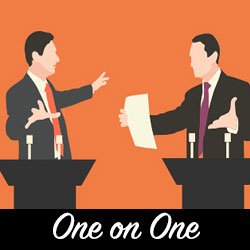
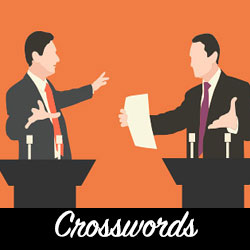
Update pro shows and minor changes

Changed region(s): [[0.0, 0.812, 1.0, 0.98]]

diff --git a/pro/index.html b/pro/index.html
@@ -42,6 +42,19 @@ Effervescence'17 presents to you the Humour Night for the very first time.  We'r
               <img src="images/thumbs/4.jpg" alt="img03"/>
             </a>
           </li>
+          <li>
+            <a href="http://cargocollective.com/jaimemartinez/" data-largesrc="images/4.jpg" data-title="Kavyom" data-description="Gear up to enjoy the Infinite Sky of Poetry at Kavyom, being held for the very first time in IIIT Allahabad. Relish an indelible and a stupendous evening with the one and only, Kumar Vishwas. It is doubtlessly going to be the most congenial event for all poetry lovers out there. 
+">
+              <img src="images/thumbs/4.jpg" alt="img03"/>
+            </a>
+          </li>
+          <li>
+            <a href="http://cargocollective.com/jaimemartinez/" data-largesrc="images/3.jpg" data-title="Horizon" data-description="Witness international artists perform live and engulf yourselves in the extravagance of art and culture at Horizon, Effervescence'17. 
+We bring to you, Carlos Elliot Jr known as the poineer of Mississippi Hill Country Blues and the famous Israeli Band, Alaska Snack Time  all set to provide a refreshing new experience that leaves no indifferent ear!
+">
+              <img src="images/thumbs/5.jpg" alt="img03"/>
+            </a>
+          </li>
 				</ul>
 			</div>
 		</div><!-- /container -->

diff --git a/events/index.html b/events/index.html
@@ -84,7 +84,7 @@ audience. Great competition, Greater effort.">
             </a>
           </li> 
           <li class="lit">
-            <a href="http://cargocollective.com/jaimemartinez/" data-largesrc="images/1.jpg" data-title="One on One" data-description=" Sometimes it&#39;s a boon to have the infinite scrolling option on Facebook! But, aren&#39;t you fed up of
+            <a href="http://cargocollective.com/jaimemartinez/" data-largesrc="images/1.jpg" data-title="Crosswords" data-description=" Sometimes it&#39;s a boon to have the infinite scrolling option on Facebook! But, aren&#39;t you fed up of
                 seeing the repetitive memes in your newsfeed? Is your thumb tired of scrolling through
                 innumerable meme pages just to end up finding not-so- good memes, according to you? If yes,
                 then,&quot;Be the change you want to see in the world.&quot; For memes, the world is virtual. A creative-
